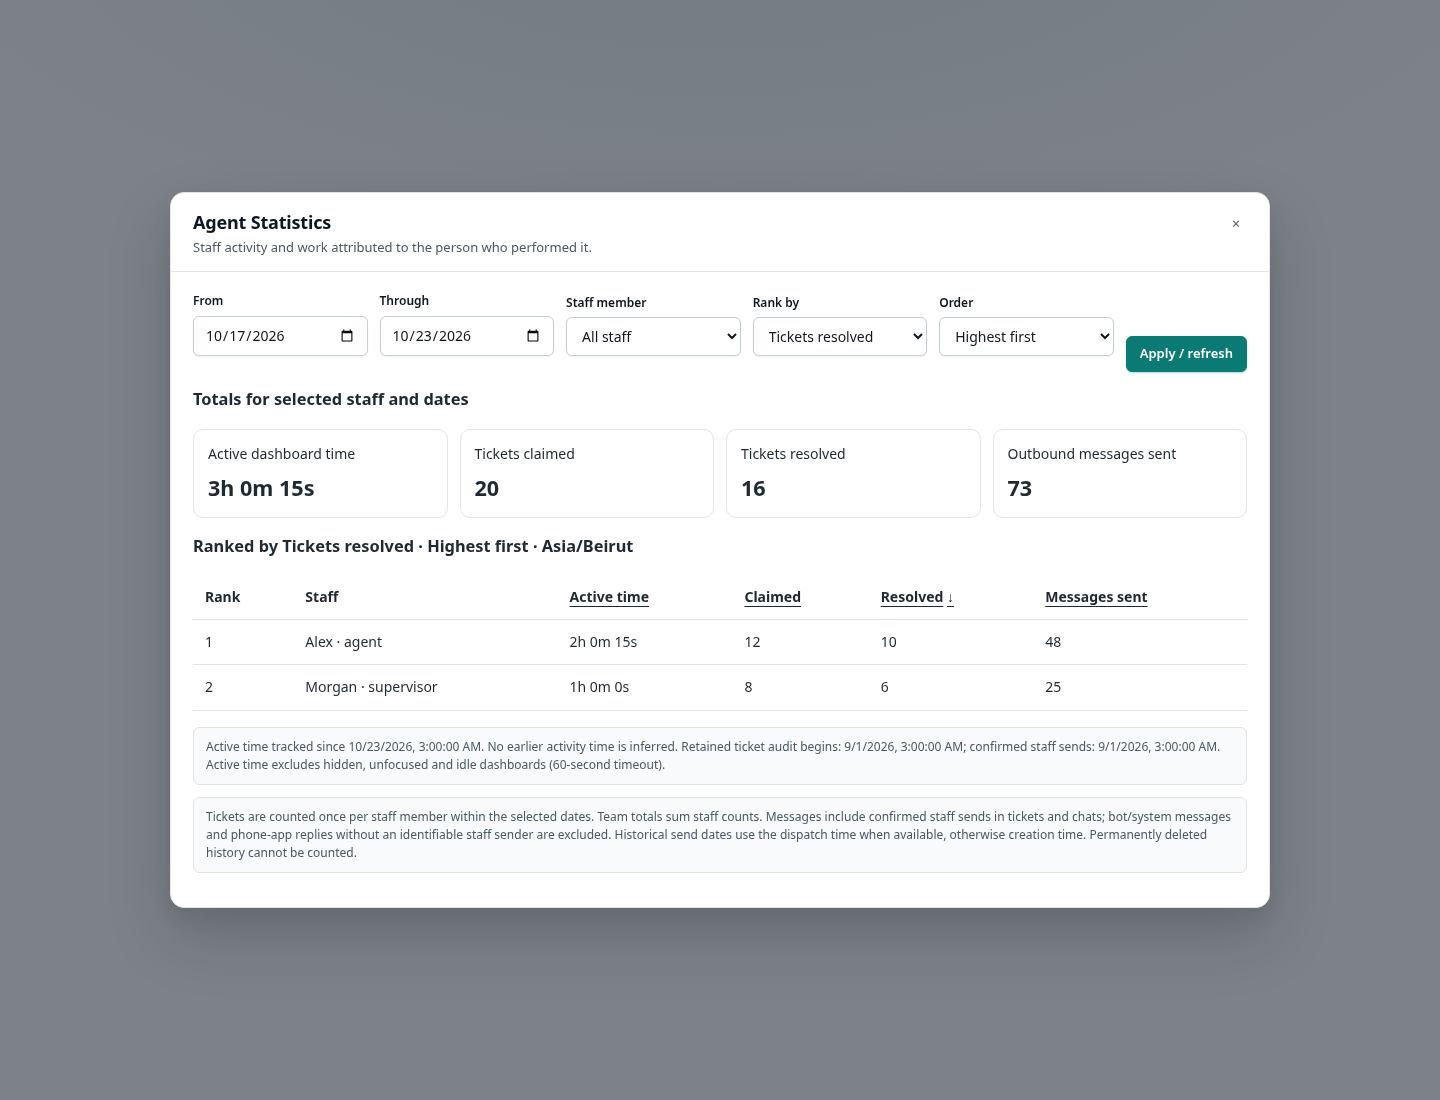
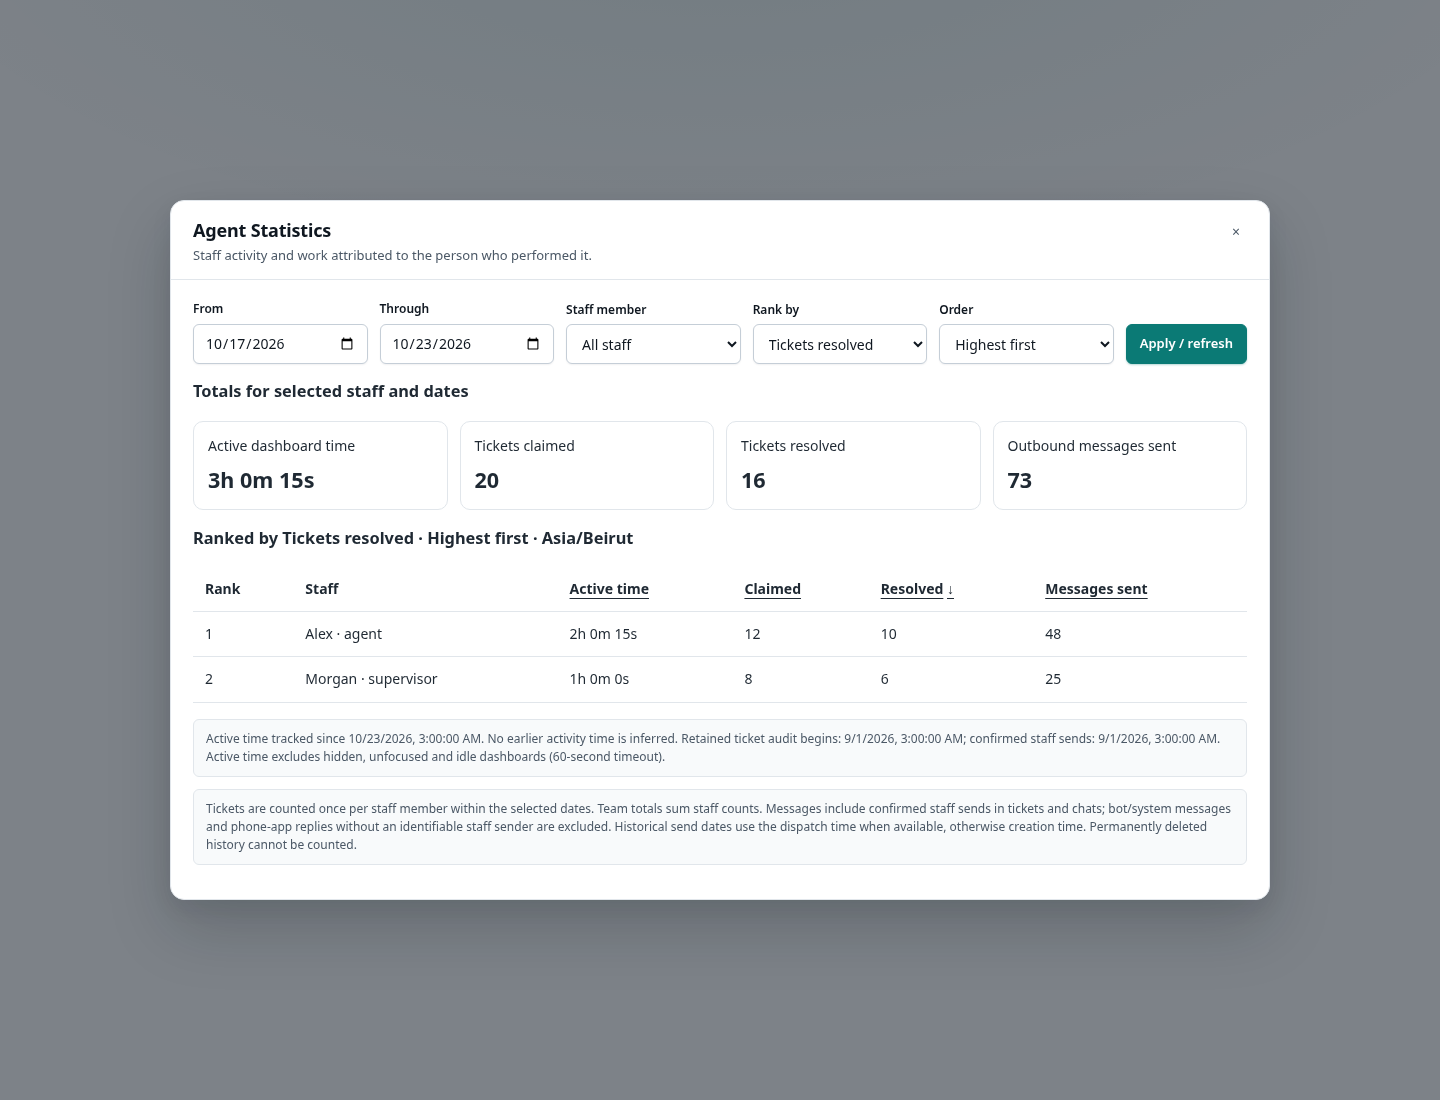
Fix statistics filter button alignment

diff --git a/app/static/support/support.css b/app/static/support/support.css
@@ -1433,7 +1433,8 @@ body.column-resizing * { cursor: col-resize !important; }
 /* Manager-only activity report. */
 .statistics-card{width:min(1100px,96vw);max-width:1100px}
 .statistics-filters{display:flex;flex-wrap:wrap;gap:12px;align-items:end;margin-bottom:16px}
-.statistics-filters .field{flex:1;min-width:140px}
+.statistics-filters .field{flex:1;min-width:140px;margin:0}
+.statistics-filters input,.statistics-filters select,.statistics-filters>.btn{min-height:40px}
 .statistics-totals{display:grid;grid-template-columns:repeat(auto-fit,minmax(170px,1fr));gap:12px;margin:16px 0}
 .statistics-totals>div{border:1px solid var(--border);border-radius:10px;padding:14px;display:flex;flex-direction:column;gap:8px}
 .statistics-totals strong{font-size:1.35rem}
